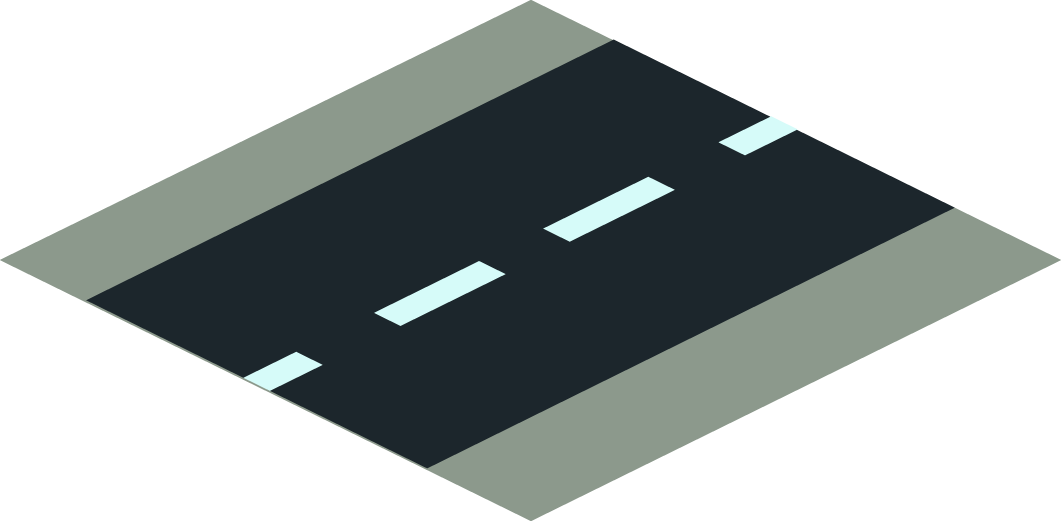
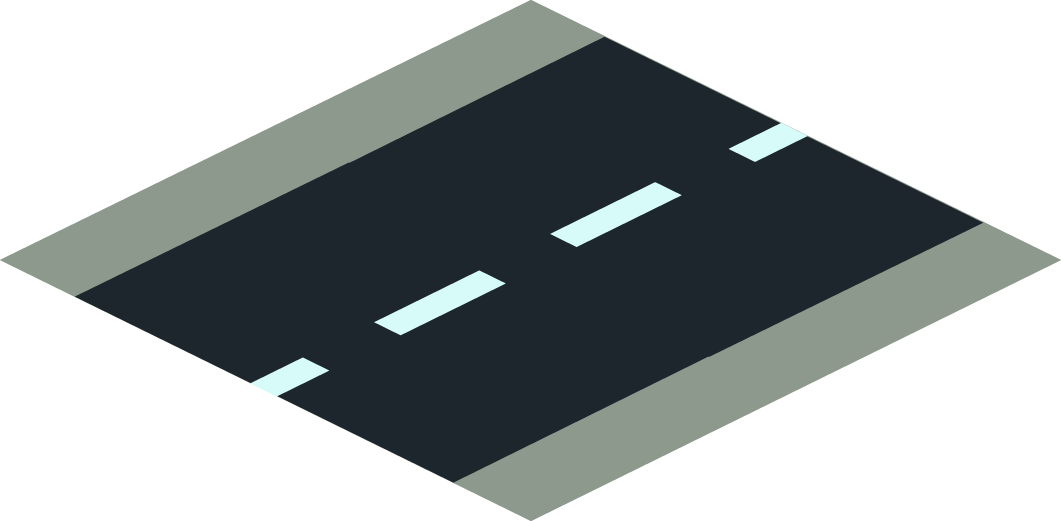
Fehlende Straßentiles hinzugefügt

diff --git a/src/view/BuildingToImageMapping.java b/src/view/BuildingToImageMapping.java
@@ -26,23 +26,30 @@ public class BuildingToImageMapping {
         mapping.put("silicone factory", "factories/siliconeFactory");
         mapping.put("chemical plant", "factories/chemicalPlant");
         mapping.put("submerged-arc furnace", "factories/furnace");
+        mapping.put("sand pit", "factories/sandPit");
+
         mapping.put("water", "ground/water");
         mapping.put("tree", "ground/trees");
         mapping.put("stone", "ground/stones");
         mapping.put("runway", "airport/runway");
         mapping.put("rail-ne-sw", "rail/rail-ne-sw");
-        mapping.put("road-ne-sw", "road/road-ne-sw");
-        mapping.put("road-ne-nw-se-sw", "road/cross");
-        mapping.put("road-ne-nw", "road/curve-nw-ne");
+
+
         mapping.put("road-ne", "road/road-ne");
         mapping.put("road-nw", "road/road-nw");
         mapping.put("road-se", "road/road-se");
-        mapping.put("road-nw-se", "road/road-nw-se");
         mapping.put("road-sw", "road/road-sw");
-        mapping.put("road-sw-ne", "road/road-sw-ne");
-        mapping.put("sand pit", "factories/sandPit");
-
-
+        mapping.put("road-ne-nw-se-sw", "road/road-ne-nw-se-sw");
+        mapping.put("road-ne-nw-se", "road/road-ne-nw-se");
+        mapping.put("road-ne-nw-sw", "road/road-ne-nw-sw");
+        mapping.put("road-ne-nw", "road/road-ne-nw");
+        mapping.put("road-ne-se-sw", "road/road-ne-se-sw");
+        mapping.put("road-ne-se", "road/road-ne-se");
+        mapping.put("road-ne-sw", "road/road-ne-sw");
+        mapping.put("road-nw-se-sw", "road/road-nw-se-sw");
+        mapping.put("road-nw-se", "road/road-nw-se");
+        mapping.put("road-nw-sw", "road/road-nw-sw");
+        mapping.put("road-se-sw", "road/road-se-sw");
     }
 
     public Collection<String> getImageNames(){
